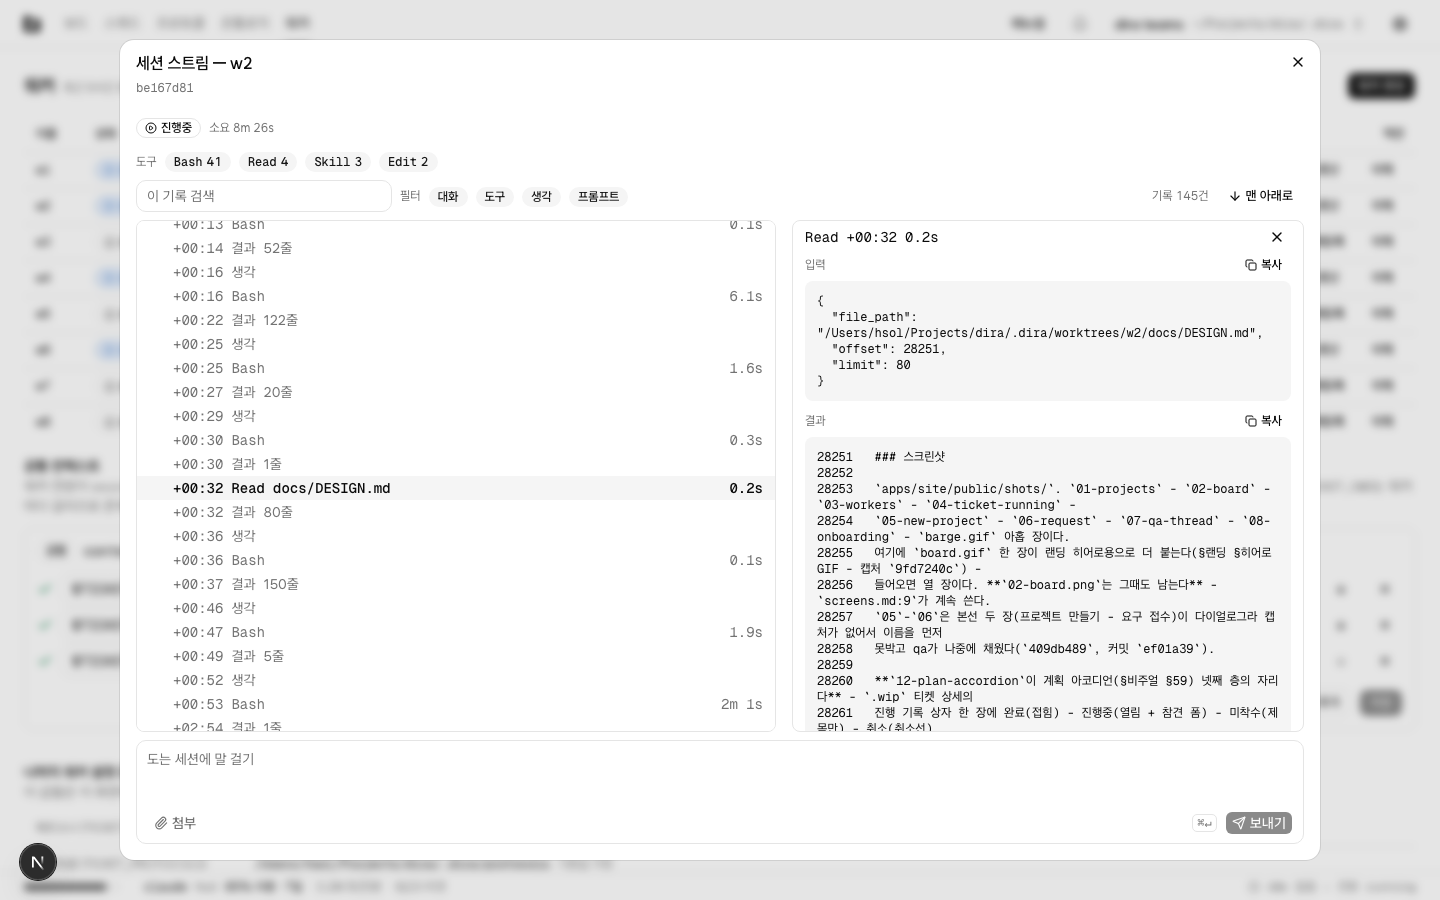
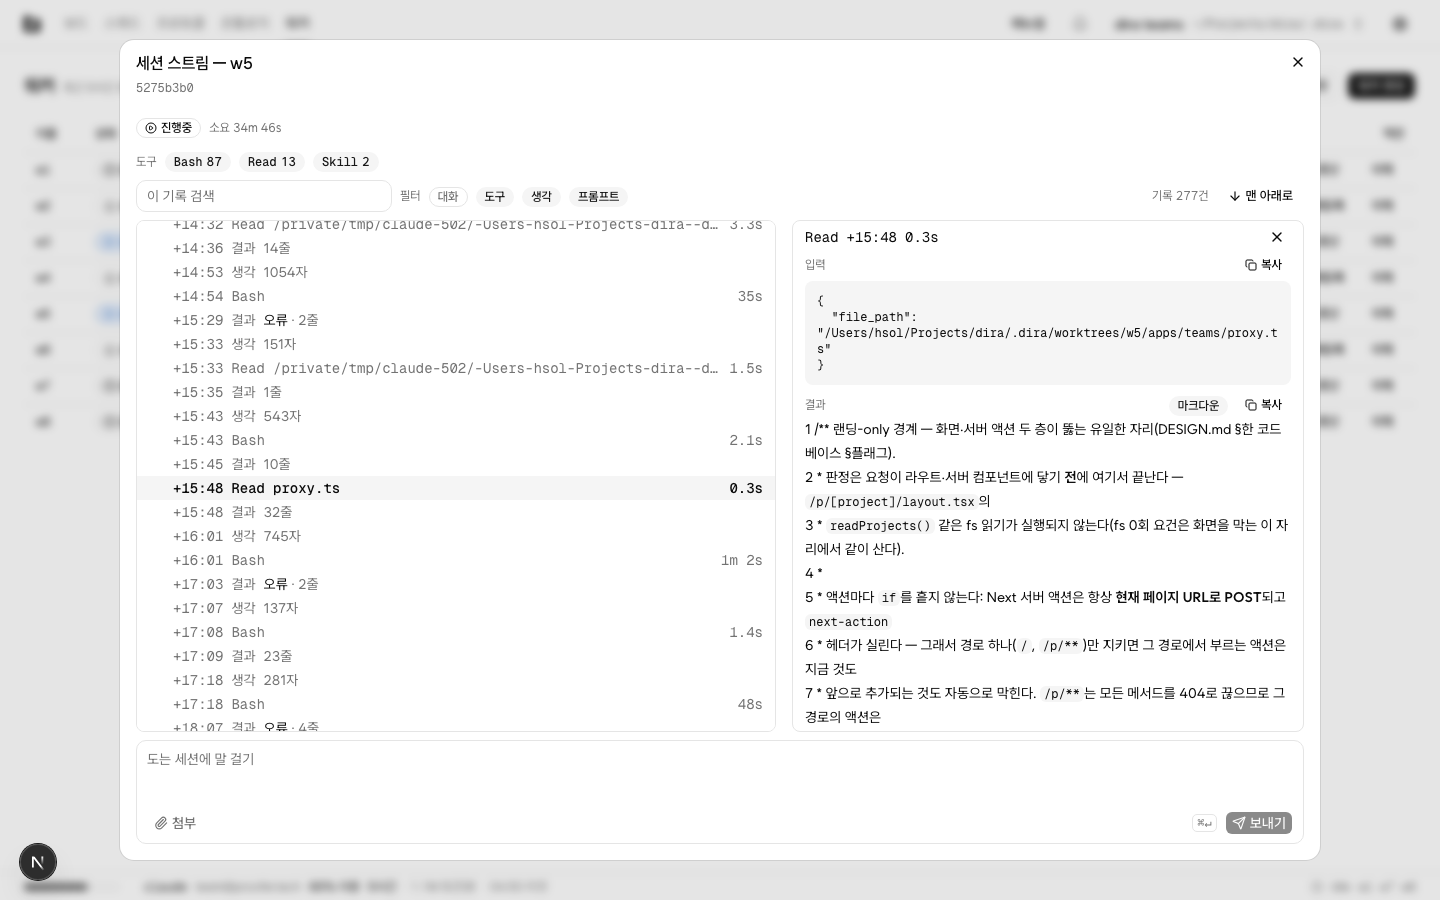
commit

diff --git a/apps/teams/docs/screens.md b/apps/teams/docs/screens.md
@@ -168,7 +168,7 @@
 
 ### 워커 다이얼로그의 머리와 툴바
 
-![워커 화면에서 연 세션 스트림 다이얼로그. 머리에 워커 이름과 티켓 해시가 서고 그 아래 `진행중` 배지와 `소요 8m 26s`, 다시 그 아래 `Bash 41`로 시작하는 도구 칩 줄, 검색칸과 필터 넷, `기록 145건`이 놓입니다. 본문은 두 단입니다. 왼쪽은 `+00:32 Read docs/DESIGN.md`처럼 상대 시각으로 선 사건 목록이고, 오른쪽은 고른 줄의 입력과 결과입니다.](/shots/16-worker-stream.png)
+![워커 화면에서 연 세션 스트림 다이얼로그. 머리에 워커 이름과 티켓 해시가 서고 그 아래 `진행중` 배지와 `소요 8m 26s`, 다시 그 아래 `Bash 41`로 시작하는 도구 칩 줄, 검색칸과 필터 넷, `기록 145건`이 놓입니다. 본문은 두 단입니다. 왼쪽은 `+00:32 Read docs/DESIGN.md`처럼 상대 시각으로 선 사건 목록이고, 오른쪽은 고른 줄의 입력과 결과입니다. `결과` 절 머리에는 `마크다운` 배지와 `복사` 버튼이 나란히 놓입니다.](/shots/16-worker-stream.png)
 
 워커 표의 행마다 `스트림` 버튼이 붙어 있습니다. 지금 돌고 있고 물고 있는 티켓을 아는 행에서만
 눌립니다. 나머지 행에서는 버튼이 자리만 지킵니다.
